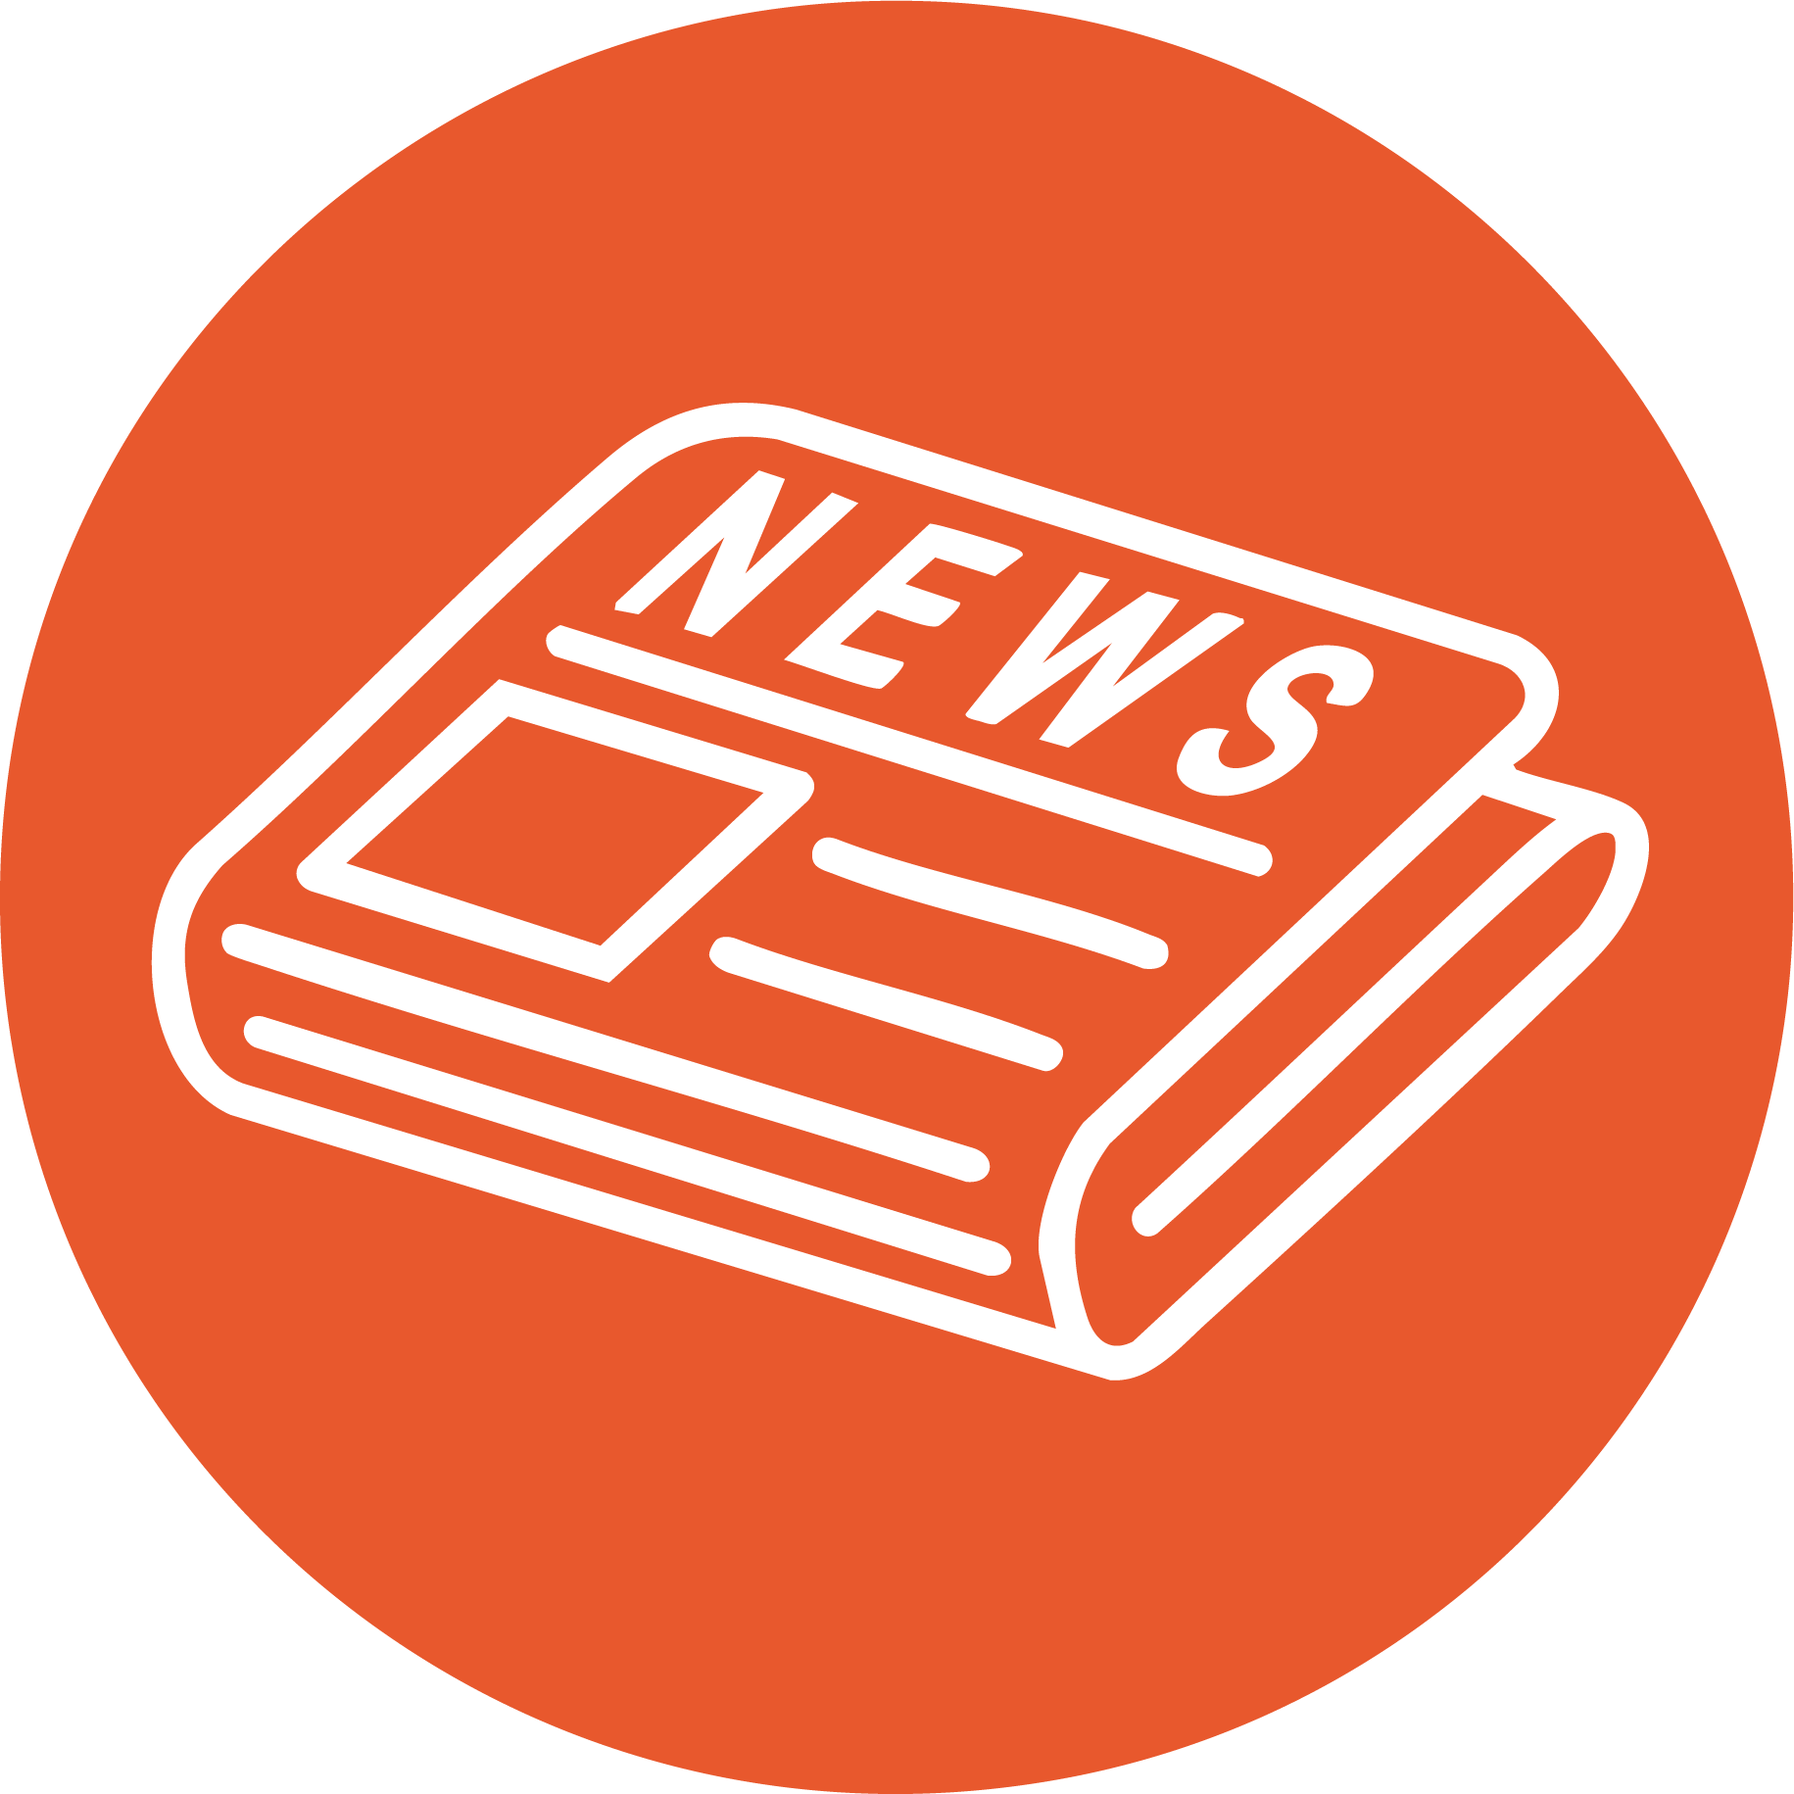
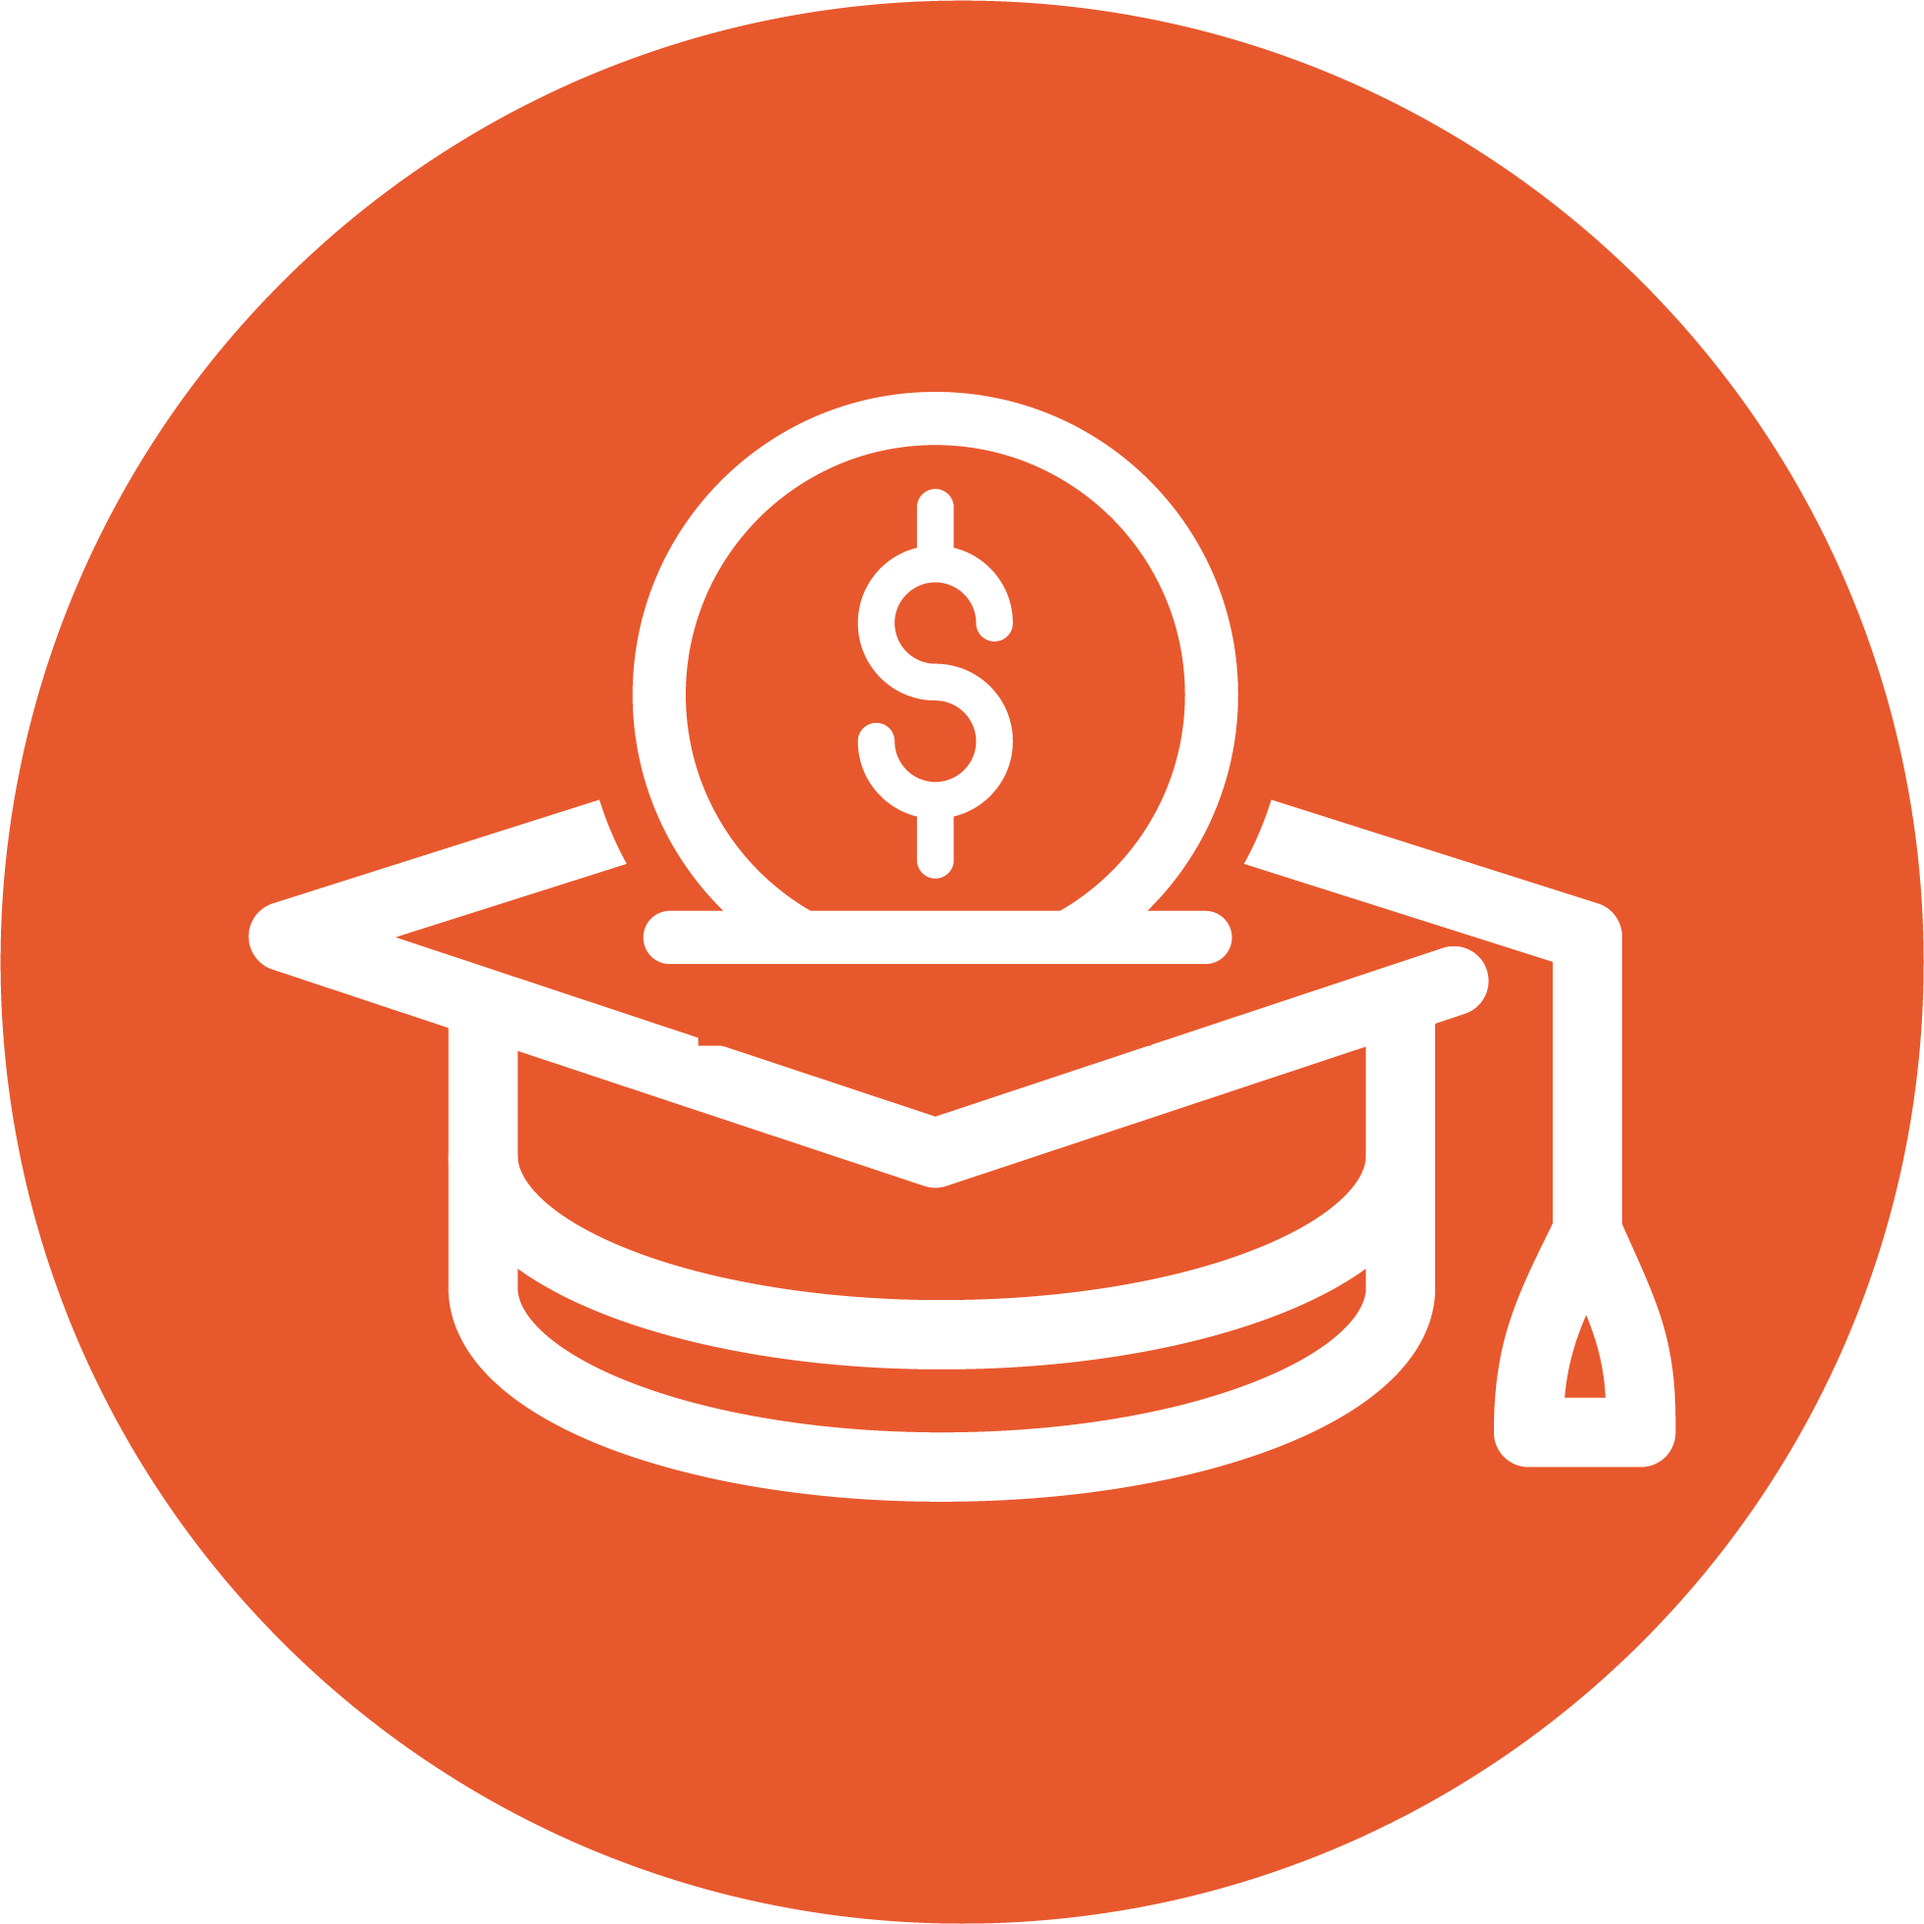
Cambiato feelgood post con bandi

Changed region(s): [[0.0623, 0.1868, 0.9339, 0.7783], [0.9962, 0.4358, 1.0, 0.5603], [0.4358, 0.9962, 0.5603, 1.0]]

diff --git a/resources/js/Components/AltriServizi.vue b/resources/js/Components/AltriServizi.vue
@@ -51,7 +51,7 @@ import eventi from "@/../images/icons_rounded/eventi.png";
                             <p
                                 class="text-center feelstrange-font pb-5 d-md-none"
                             >
-                                FEEL GOOD POST
+                                BANDI
                             </p>
                         </div>
                     </div>
@@ -91,15 +91,12 @@ import eventi from "@/../images/icons_rounded/eventi.png";
                     </p>
                 </div>
                 <div class="col-12 col-md-3 text-center text-primary">
-                    <p class="text-center feelstrange-font mb-0">
-                        FEEL GOOD POST
-                    </p>
+                    <p class="text-center feelstrange-font mb-0">BANDI</p>
                     <p class="p-lg-3">
-                        The Feel Good Post è il nostro giornale autoprodotto,
-                        scritto da noi e da due dei nostri allievi. Parleremo di
-                        musica a tutto tondo, dalla cronaca rosa alle news del
-                        momento, dall'oroscopo ai quiz e qualche curiosità sulla
-                        scuola.
+                        Le nostre borse di studio, dirette perlopiù a ragazzi/e
+                        tra i 14 e i 18 anni, con le quali hanno la possibilità
+                        di autofinanziarsi le lezioni ed imparare basi di
+                        grafica, tipografia e marketing.
                     </p>
                 </div>
             </div>
